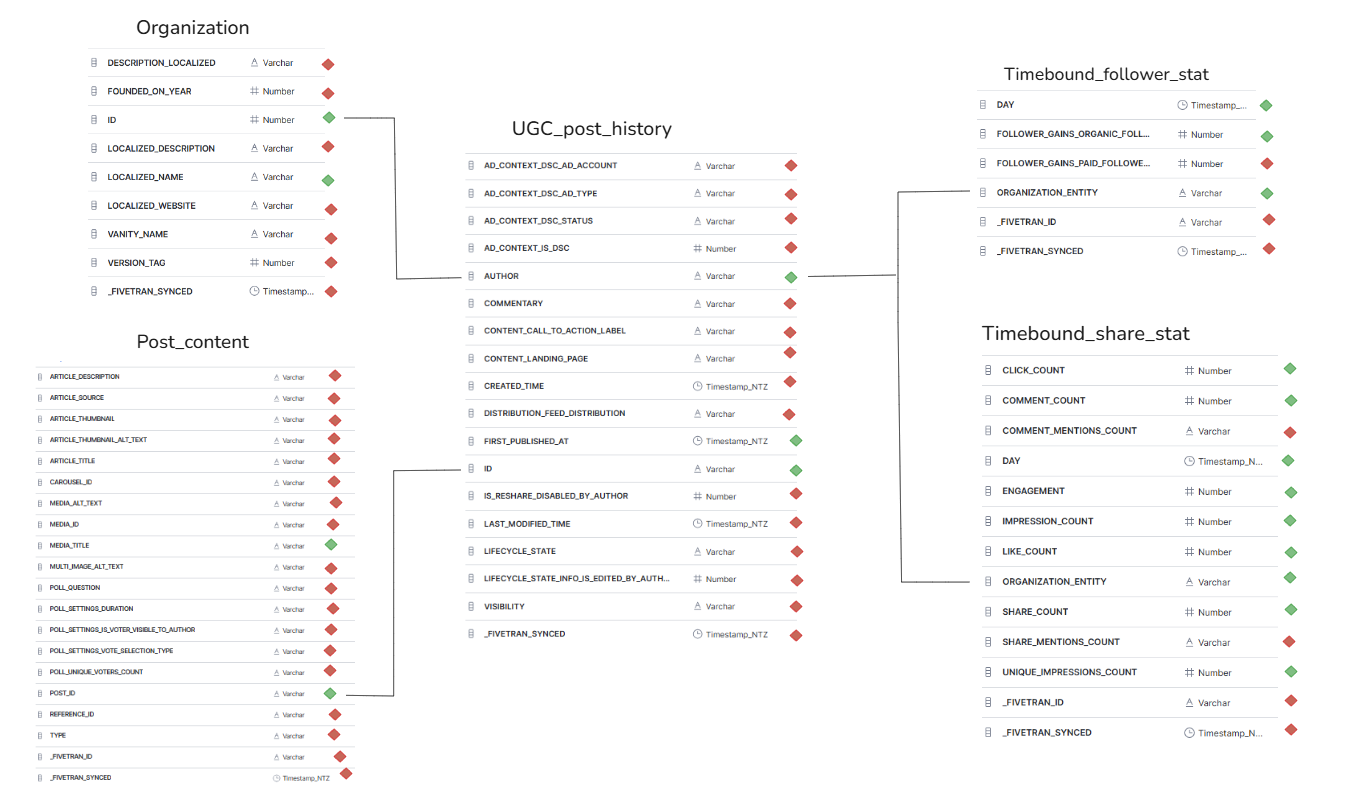
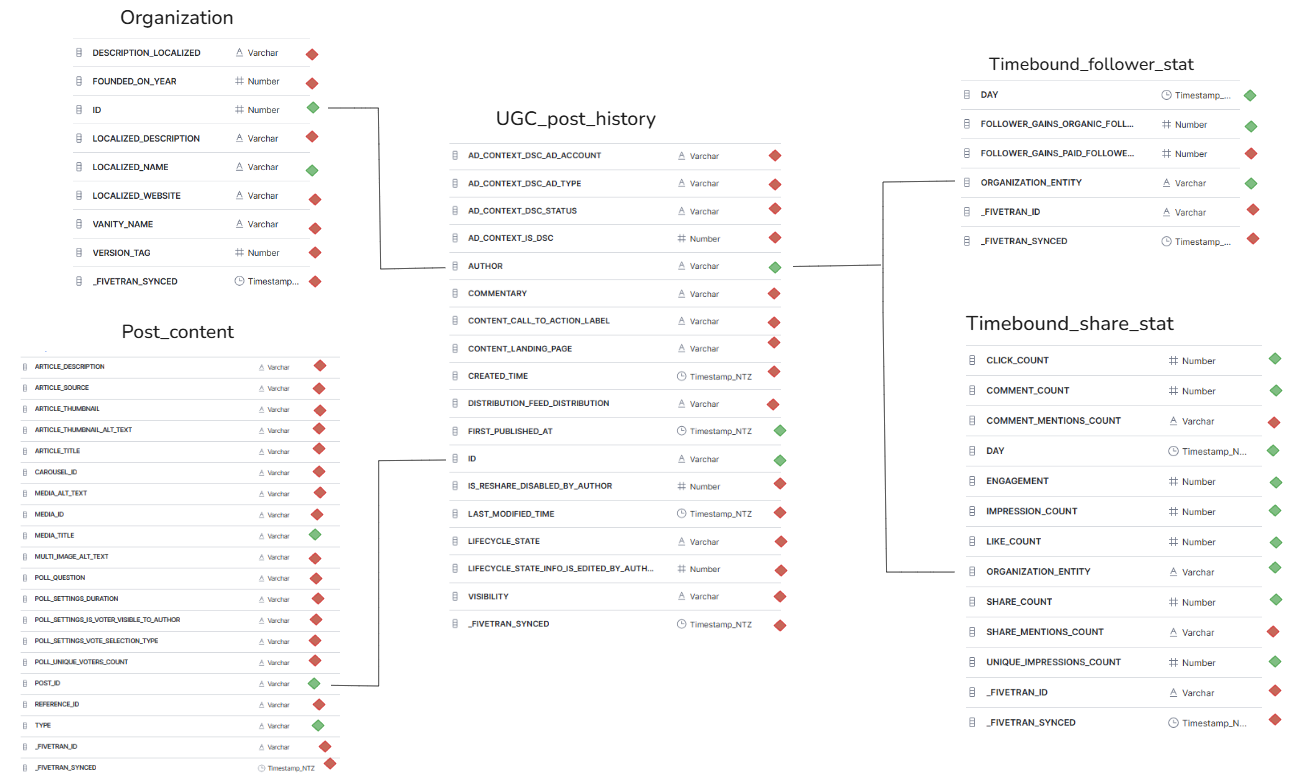
Split main query into 3 orgs

diff --git a/README.md b/README.md
@@ -14,7 +14,7 @@ Additional Data (time_bound tables):
 - Daily Follow and engagement metrics by Information Lab Pages
 
 Output:
-- A single table where each row is a record of measured engagement stats per day and the most active post
+- 3 tables where each row is a record of measured engagement stats per day where each table shows this per organisation
 
 Plan:
 - Explore angles for what a final table(s) could consist of for data analysis based on the raw data
@@ -28,27 +28,29 @@ e.g. If the goal is to maximise engagement it doesn't make sense to analyse post
 - I ultimately decided to construct an end table that would provide the end user the ability to analyse how posts affect engagement
 over time which could explore frequency, topics, author (branch of the company between DS UK / DS NY / TIL) and the types of engagement recorded including followers gained.
 
+- Upon review, I decided to split the tables by organisation as this would give cleaner end results which would also offer the end user to union the tables for a company comparison if they wished
+
 ![Planning schema](working_schema_sql1.png "Planning schema")
 
 - This is the loose schema I used to help figure out how the tables possibly connect and what the context of each table was. This helped me explore
-the data and what the final contents of the end table could contain.
+the data and what the final contents of the end tables could contain.
 
 - In my final table I used 5/7 available tables omitting "ugc_post_share_statistics" and "organization_ugc_post" as none of their fields 
-were useful for my end goal. Additionally, out of the 66 total fields available, only 13 were used to construct the final engagement analysis table 
+were useful for my end goal. Additionally, out of the 66 total fields available, only 15 were used to construct the final engagement analysis table 
 as the rest were either empty or not useful such as vanity_name, lifetime_state etc.
 
 Key choices for the build:
 - Any field that was completely NULL was automatically disregarded, I also chose to exclude any fivetran metric as this was more important to understand
 when the data was brought into snowflake rather than the data itself or the end goal of this project, however, I would consider retaining it to help with version control for future updates.
 
-- I assumed for media_title anything NULL was related to the same post as it fell under or above records with titles, especially as it had a different media type so I chose to exclude the NULL values so that any engagement recorded was primarily based on the topic of the content rather than the individual media that comprises it. 
+- I chose to keep null media values as this allowed engagement data for the majority of dates with 0 posts to retain engagement information which would serve as a reference point
+to determine how impactful posts were
 
-- I finally also chose to exclude engagement records before the first recorded post, this was to focus primarily on the impact posting has on the company's social media engagement 
-and how this could be streamlined for maximum exposure
+- Contrary to my initial plan I decided to keep engagement data prior to the first recorded post to serve as a baseline for how posts increased engagement relative to no posting
 
 Final Result + Future considerations:
-- The final table produced shows the engagement recorded over time and what post was most "active" at the time. This table offers the end user to 
-analyse engagement over time and various factors that affect it to help optimise future social media posts.
+- The final tables produced shows the engagement recorded over time and how engagement increased when a post was published. This table offers the end user to 
+analyse various factors that affect it to how to optimise future social media posts.
 
 ![Finalised schema](Final_schema_sql1.png "Final schema")
 - The final schema shows what fields were kept and used in the final build and highlights how many of these fields were ultimately disregarded.
@@ -58,23 +60,3 @@ context of the data took some trial and error to finally nail down.
 - In future I think utilising Github would have helped as I would have been able to test and explore options without having to lose the original framework built 
 or having to make multiple sql files/queries. I think this would have helped me understand my thought process when reflecting on my progress to plan ahead better and also
 improve efficiency in reaching the final build without having to go backwards and forwards when discovering new things about the data.
-
-
-
-
-
-
-
-
-
-
-
-
-
-
-
-
-
-
-
-